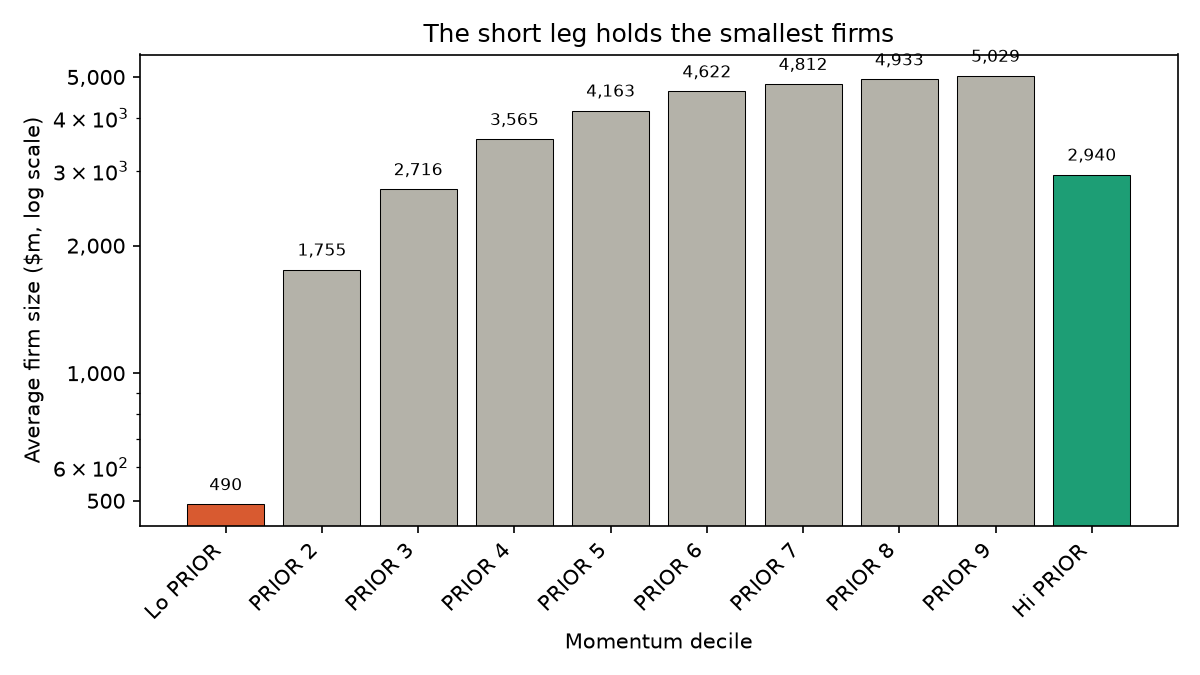
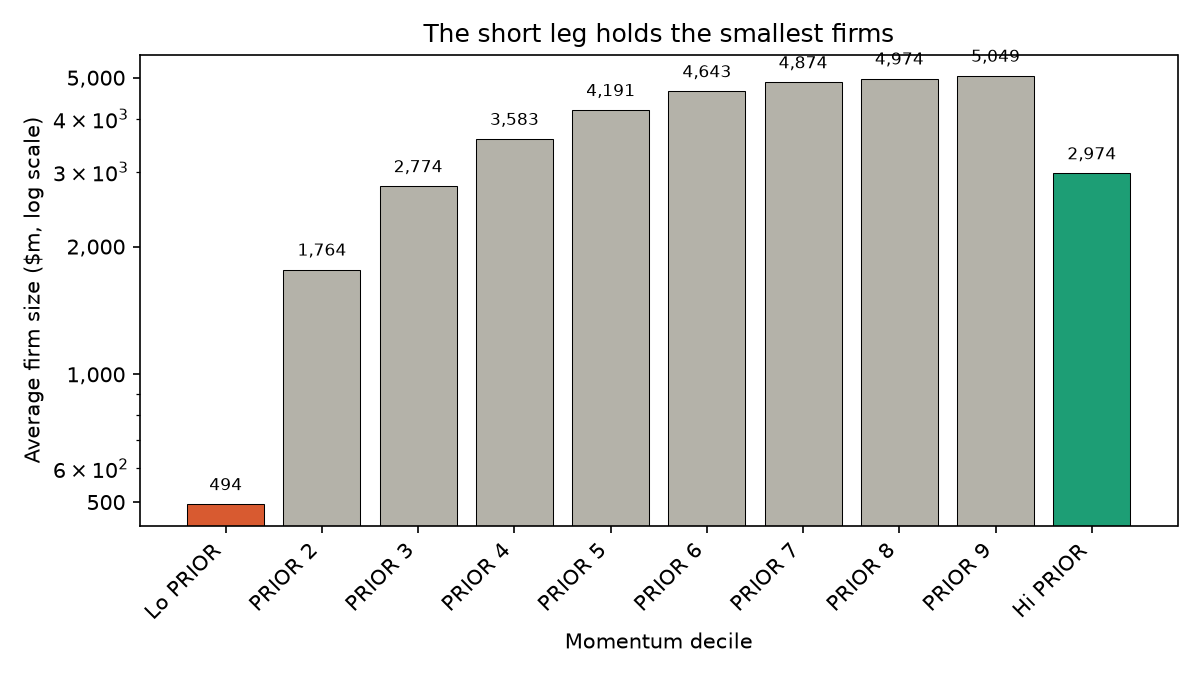
added linear scale plot

diff --git a/src/figures.py b/src/figures.py
@@ -61,19 +61,28 @@ def plot_average_firm_size(size):
 
 
 def plot_cumulative(returns):
-    cumulative = (1 + returns).cumprod()
     crash = pd.Timestamp('2009-04-01')
-    fig, ax = plt.subplots(figsize=(9, 4.5))
-    ax.plot(cumulative.index, cumulative.values, color=BLUE, linewidth=1)
-    ax.set_yscale('log')
-    ax.axvspan(pd.Timestamp('2008-09-01'), pd.Timestamp('2009-12-01'),
-               color=RED, alpha=0.15)
-    ax.annotate('April 2009: -45.2% in one month',
-                xy=(crash, cumulative.at[crash]),
-                xytext=(0.55, 0.25), textcoords='axes fraction',
-                arrowprops=dict(arrowstyle='->', color='#5F5E5A'), fontsize=9)
-    ax.set_ylabel('Growth (log scale)')
-    ax.set_title('Cumulative gross performance, HI minus LO')
+    summed = returns.cumsum()
+    compounded = (1 + returns).cumprod()
+
+    fig, (ax1, ax2) = plt.subplots(2, 1, figsize=(9, 6.5), sharex=True)
+
+    for ax in (ax1, ax2):
+        ax.axvspan(pd.Timestamp('2008-09-01'), pd.Timestamp('2009-12-01'), color=RED, alpha=0.15)
+
+    ax1.plot(summed.index, summed.values, color=BLUE, linewidth=1)
+    ax1.set_ylabel('Cumulative sum of returns (%)')
+    ax1.set_title('one unit of exposure every month')
+
+    ax2.plot(compounded.index, compounded.values, color=BLUE, linewidth=1)
+    ax2.set_ylabel('Growth of 1 unit invested')
+    ax2.set_title('Compounded: gains reinvested')
+    ax2.annotate('April 2009: -45.2% in one month',
+                 xy=(crash, compounded.at[crash]),
+                 xytext=(0.55, 0.7), textcoords='axes fraction',
+                 arrowprops=dict(arrowstyle='->', color='#5F5E5A'), fontsize=9)
+
+    fig.suptitle('Cumulative gross performance, Hi minus Lo')
     fig.tight_layout()
     fig.savefig(OUTDIR / 'cumulative_performance.png', dpi=150)
     return fig
